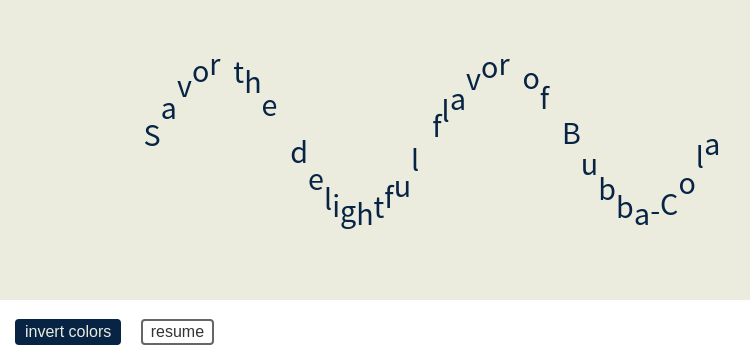
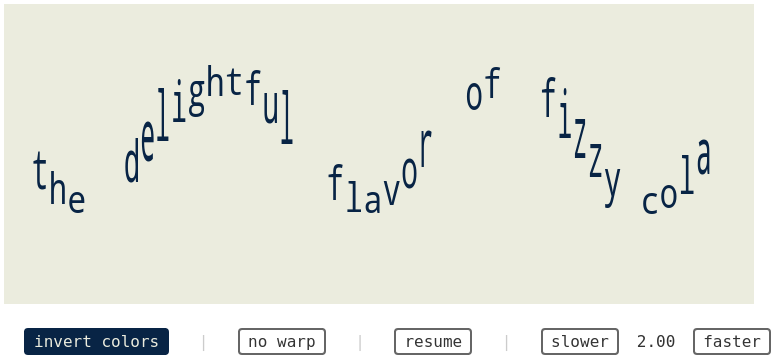
Repaint warp in freeze; tweak layout

diff --git a/js/wavy-text.js b/js/wavy-text.js
@@ -24,9 +24,9 @@ var WavyText = (function () {
         coefficient: 2
       },
       layout = {
-        width: 750,
-        height: 300,
-        amplitudeFactor: 1/5,
+        width: 830,
+        height: 250,
+        amplitudeFactor: 1/4,
         text: {
           gapFactor: 1/6,
           value: 'savor  the  delightful  flavor  of  fizzy cola'
@@ -100,11 +100,12 @@ var WavyText = (function () {
   function toggleWarp() {
     if (layout.text.warp) {
       layout.text.warp = false;
-      buttons.warp.innerHTML = 'do warp';
+      buttons.warp.innerHTML = '&nbsp;enable warp';
     } else {
       layout.text.warp = true;
-      buttons.warp.innerHTML = 'no warp';
+      buttons.warp.innerHTML = 'disable warp';
     }
+    paint();
   }
 
   function invertColors() {
